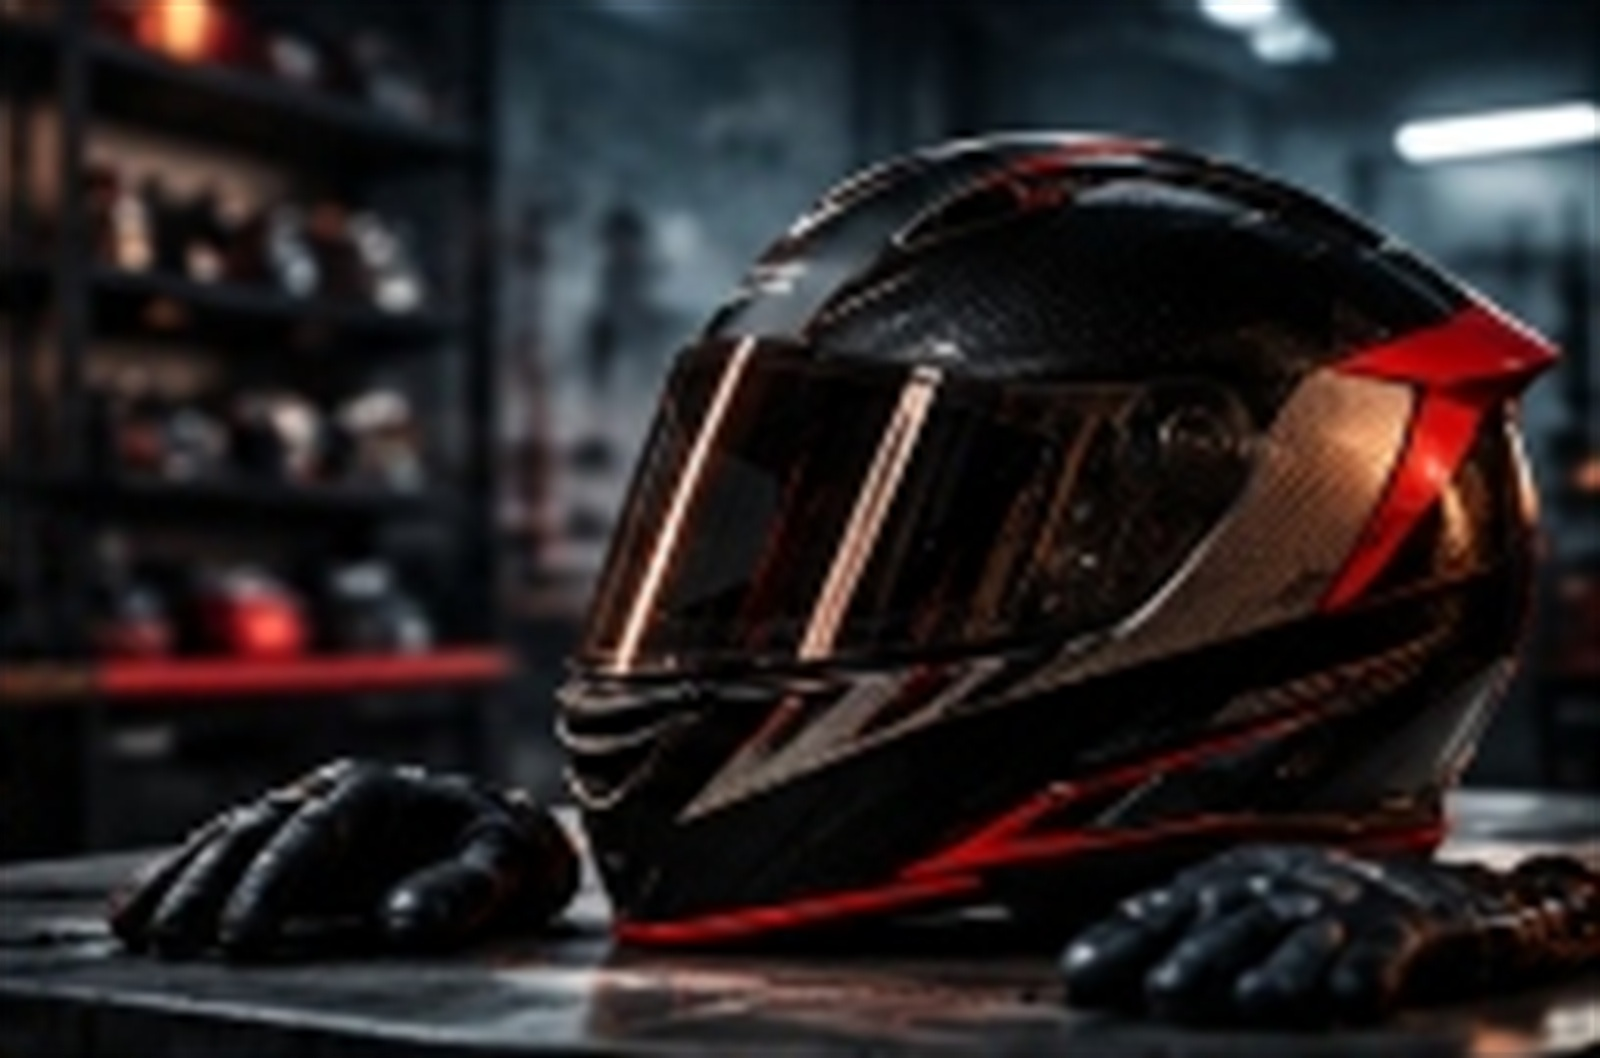
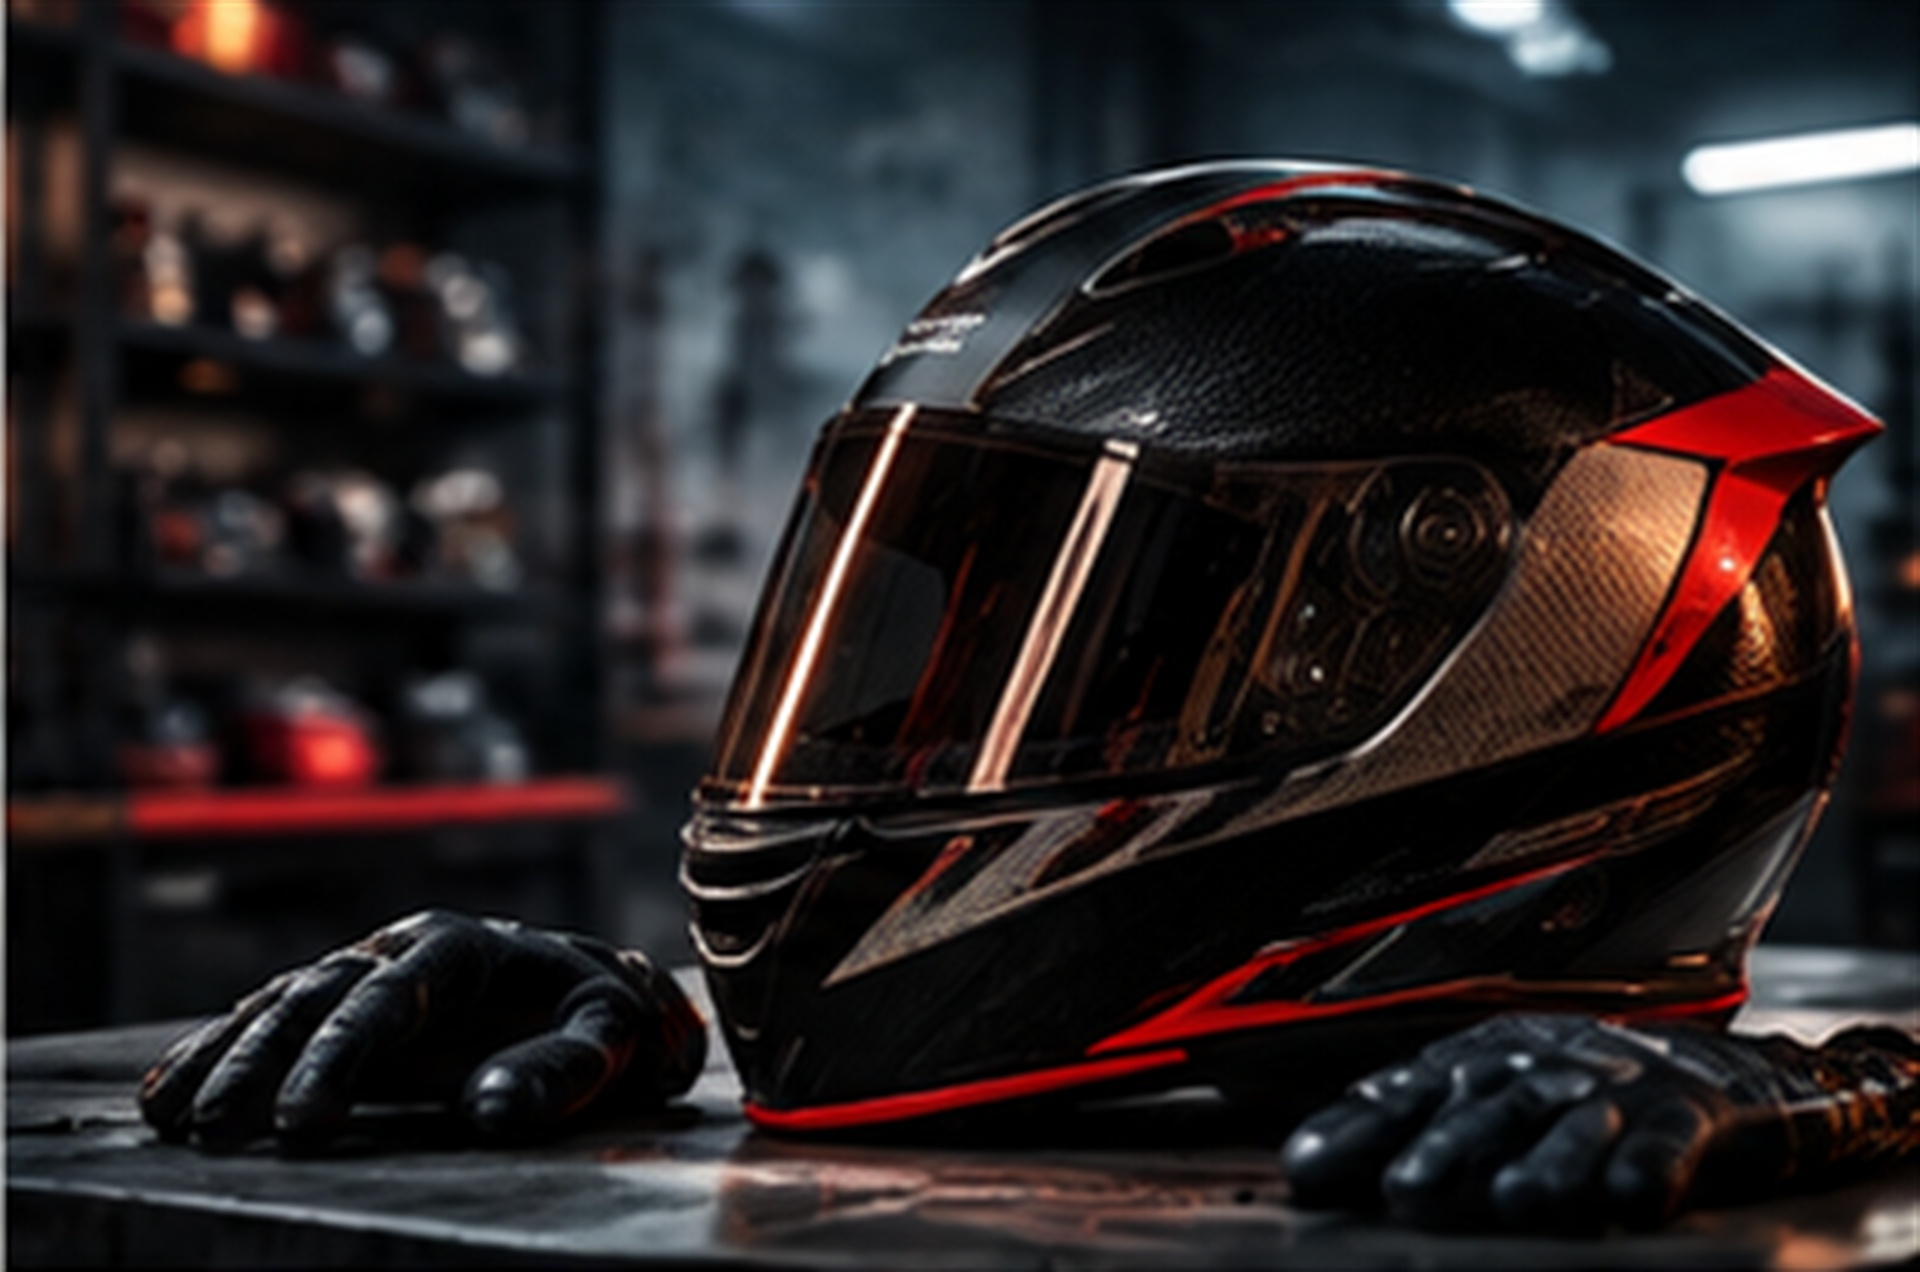
feat(wishlist): apply high-res carbon helmet vault background with responsive positioning

diff --git a/src/page-animations.css b/src/page-animations.css
@@ -372,15 +372,21 @@
   position: fixed;
   inset: 0;
   background-image: 
-    linear-gradient(180deg, rgba(7, 10, 15, 0.88) 0%, rgba(7, 10, 15, 0.72) 40%, rgba(7, 10, 15, 0.94) 100%),
-    radial-gradient(circle at 85% 25%, rgba(255, 49, 87, 0.16) 0%, transparent 60%),
+    linear-gradient(180deg, rgba(7, 10, 15, 0.88) 0%, rgba(7, 10, 15, 0.65) 38%, rgba(7, 10, 15, 0.94) 100%),
+    radial-gradient(ellipse at 75% 35%, rgba(255, 49, 87, 0.16) 0%, transparent 60%),
     url('/images/backgrounds/wishlist-vault-helmet.jpg');
   background-size: cover;
-  background-position: center 30%;
+  background-position: right 15% center;
   background-repeat: no-repeat;
   pointer-events: none;
   z-index: -1;
   opacity: 0.95;
+}
+
+@media (max-width: 768px) {
+  .wishlistPage::before {
+    background-position: center 25%;
+  }
 }
 
 .light-theme .wishlistPage::before {
